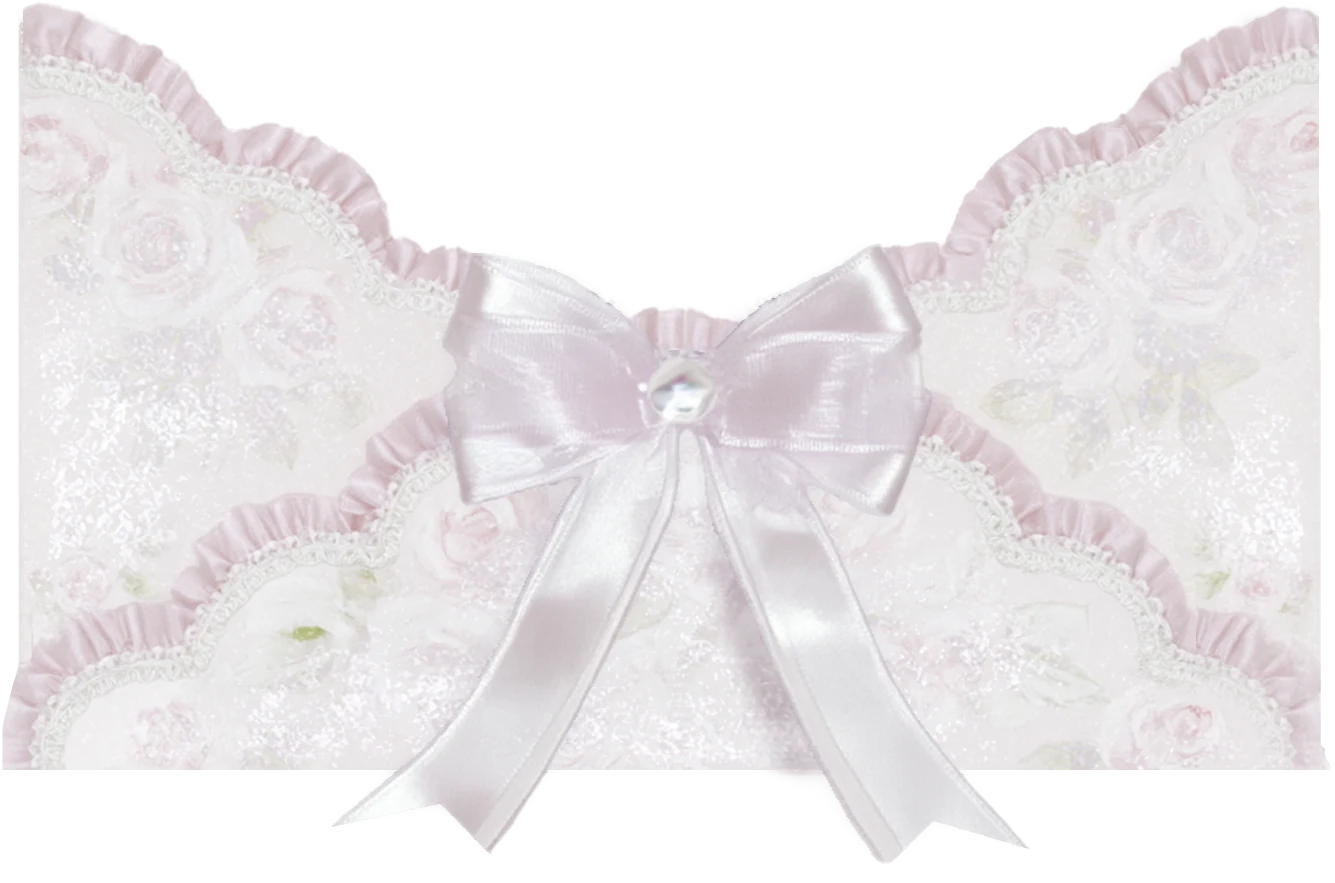
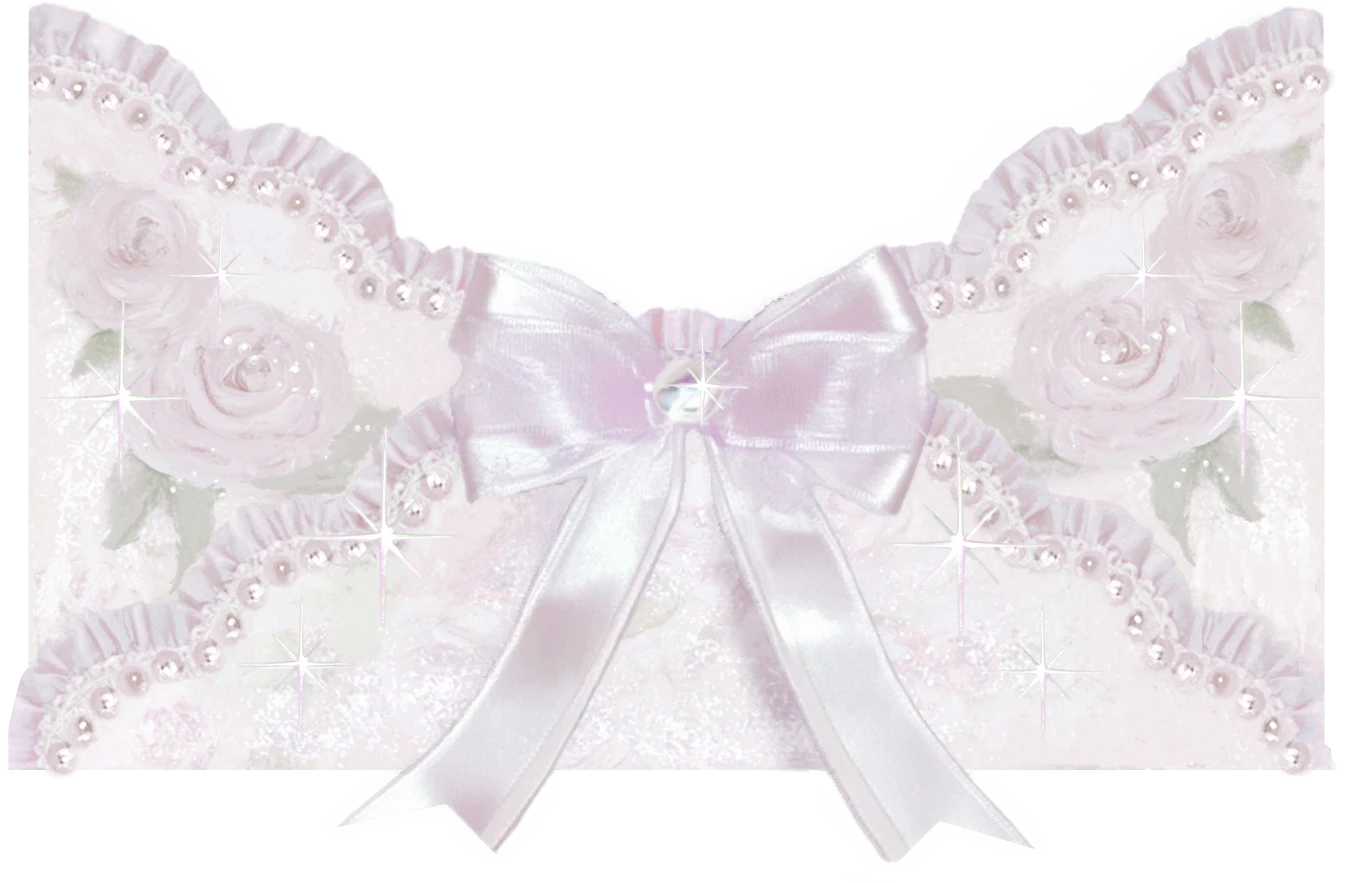
Add final popup artwork variants

diff --git a/README.md b/README.md
@@ -8,6 +8,13 @@ Design by rawpetal studio.
 - `v2` — original popup artwork and button assets
 - `v3` — alt.3 envelope, letter card, headline, and body copy
 - `v4` — alt.4 artwork with the updated Chérie Lou body-copy lettering
+- `v5` — final envelope and two approved lettering-size options
+
+The `v5` shared artwork uses `envelope-back.webp`, `envelope-front.webp`,
+`letter-card.webp`, and the Submit/Close files. Choose
+`headline-small.webp` + `letter-text-small.webp` for the larger-title
+version, or `headline-large.webp` + `letter-text-large.webp` for the
+larger-body-text version.
 
 Web pages should use the tagged jsDelivr URLs so published artwork does not
 change when newer versions are added.
